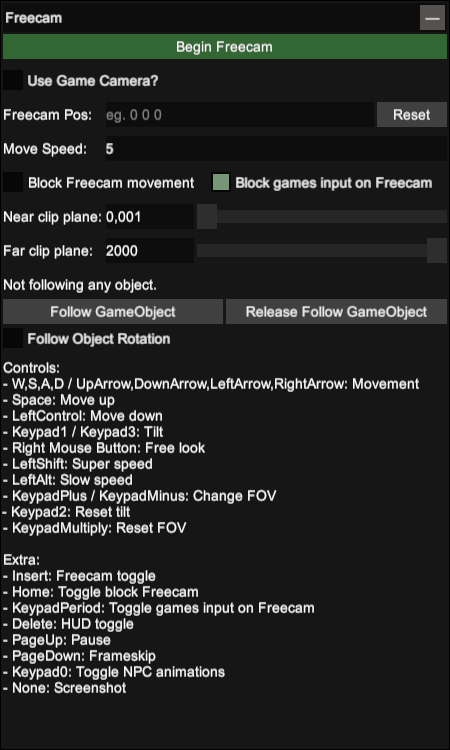
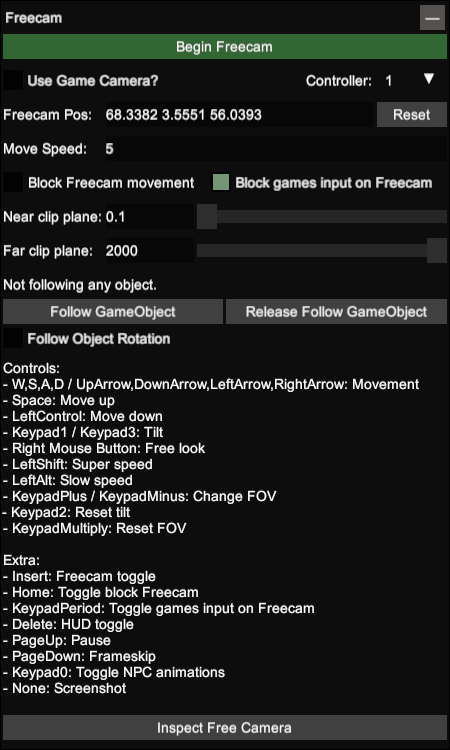
Updated the CUE guide with the next release

diff --git a/GeneralGuides/cinematic-unity-explorer.htm b/GeneralGuides/cinematic-unity-explorer.htm
@@ -84,6 +84,10 @@
 
 
 
+<li class="tocentry"><a href="#bones-panel">Bones Panel</a></li>
+
+
+
 <li class="tocentry"><a href="#hud-toggle">HUD toggle</a></li>
 
 <li class="tocentry"><a href="#force-high-lods">Force High LODs</a></li>
@@ -437,10 +441,50 @@ Boot the game again, through the Modded play button. You should see an overlay w
 </tr>
 </tbody>
 </table>
+<p>The mod also allows controller input.</p>
+<table class="table table-bordered-all table-responsive">
+<thead>
+<tr>
+	<th>Feature</th>
+	<th>Key</th>
+</tr>
+</thead>
+<tbody>
+<tr>
+	<td>Move the camera forward/left/right/backward</td>
+	<td><font face="Controller">&lt;</font></td>
+</tr>
+<tr>
+	<td>Move the camera upwards/downwards</td>
+	<td><font face="Controller">{/}</font></td>
+</tr>
+<tr>
+	<td>Speed up/down movement</td>
+	<td><font face="Controller">x/y</font></td>
+</tr>
+<tr>
+	<td>Change freecam orientation</td>
+	<td><font face="Controller">&gt;</font></td>
+</tr>
+<tr>
+	<td>Tilt left/right</td>
+	<td><font face="Controller">A/D</font></td>
+</tr>
+<tr>
+	<td>Increase/Decrease FOV</td>
+	<td><font face="Controller">W/X</font></td>
+</tr>
+<tr>
+	<td>Reset FOV</td>
+	<td><font face="Controller">b</font></td>
+</tr>
+</tbody>
+</table>
 <h1 id="freecam">Freecam<a class="headerlink" href="#freecam" title="Permalink to this headline"><i class="fa fa-link" aria-hidden="true"></i></a></h1>
 <hr />
 <p>The freecam can be enabled from the &quot;Freecam&quot; panel on the mods menu or with the <code>Insert</code> hotkey. However, there are two kinds of freecams, as explained in the two following subsections.</p>
 <p><img src="../Images/CinematicUnityExplorerGuide/sidebyside.jpg" alt="sidebyside" class="shadowed autosize" width="900" height="253" /></p>
+<p>You can also control the freecam using a controller. You can select the controller to do so in the panel as shown above but do know that some games will read input from all controllers, so you might not be able to play with one controller and move the camera with the other.</p>
 <h2 id="new-camera">New Camera<a class="headerlink" href="#new-camera" title="Permalink to this headline"><i class="fa fa-link" aria-hidden="true"></i></a></h2>
 <p>Without checking the &quot;Use Game Camera?&quot; checkbox on the Freecam panel, the mod will create a new camera object for you to control. This means that some post-processing effects won't be displayed (because they are being applied to the game's camera, not the new one), making the game look &quot;ugly&quot;.</p>
 <p>However, we would like this to be the case in some games if the gameplay camera happens to bring unwanted effects (like in Somerville, where the gameplay camera didn't render behind the black bars, but this new camera did).</p>
@@ -470,6 +514,7 @@ Boot the game again, through the Modded play button. You should see an overlay w
 <p>You can enable or disable the game input when the freecam is enabled by clicking the &quot;Enable game input&quot; checkbox on the Freecam panel or pressing the <code>Numpad .</code> hotkey by default. This is enabled by default to avoid moving the character when moving the freecam.</p>
 <p>This can be used in conjunction with the &quot;Block freecam&quot; to freeze the freecam in a specific, nongameplay place, while you move the character around.</p>
 <p>Do keep in mind tho that this feature only works if the developers use Unity's Legacy Input system for their game. If the game uses a custom solution or the latest Unity system then this won't work. Implementing this for Unity's new system is in the backlog, so if you find a game using it (should say <code>Initialized new InputSystem support.</code> on the logs) then please let me know on the <a href="https://github.com/originalnicodr/CinematicUnityExplorer/issues" target="_blank">repository issues page</a> so I can implement it using that game!</p>
+<p>Also, know that blocking game input coming from a controller isn't supported at the time of writing.</p>
 <p>In the meantime, if you need to disable the game input and the mod isn't doing so automatically you can try looking for the right game object or component to disable. Follow the steps described in the <a href="#gameplay-camera">gameplay camera section</a> to do so.</p>
 <h2 id="follow-object">Follow object<a class="headerlink" href="#follow-object" title="Permalink to this headline"><i class="fa fa-link" aria-hidden="true"></i></a></h2>
 <p>Following world objects can be useful for recording video, by creating <a href="#cam-paths">camera paths</a> that are relative to objects.</p>
@@ -540,22 +585,38 @@ Boot the game again, through the Modded play button. You should see an overlay w
 <p>Go to the Misc panel and toggle the &quot;Make all meshes cast and receive shadows&quot; toggle. It's still possible for the light to not cast shadows on specific meshes even with this toggled on (e.g. Dredge), but it's not that common.</p>
 <h1 id="animator">Animator<a class="headerlink" href="#animator" title="Permalink to this headline"><i class="fa fa-link" aria-hidden="true"></i></a></h1>
 <hr />
-<p>The Animator panel allows you to manually play and pause animations on the current characters and NPCs loaded in a scene. This should be pretty useful for getting the right animation on each enemy to set up a composition.</p>
-<p><img src="../Images/CinematicUnityExplorerGuide/animator-panel.png" alt="Animator panel" class="shadowed autosize" width="900" height="564" /></p>
+<p>The Animator panel allows you to manually pause and play animations as well as select specific animation keyframes on the current characters and NPCs loaded in a scene. This should be pretty useful for getting the right animation on each enemy to set up a composition.</p>
+<p><img src="../Images/CinematicUnityExplorerGuide/animator-panel.png" alt="Animator panel" class="shadowed autosize" width="1300" height="278" /></p>
 <p>Favorite animations appear first on the dropdown list by clicking on the star button with the animation selected.</p>
-<p>The way the animator works is that it will replace the animation the entity is doing when the user hit the &quot;Play&quot; button.</p>
+<p>The way the animator works is that it will replace the animation the entity is doing when the user hits the &quot;Play&quot; button or selects a keyframe using the slider.</p>
+<p>The Animator panel also offers a way to hide each NPC individually to help you identify which animator belongs to each NPC if the name isn't enough to figure out. This could also be used to momentarily hide NPCs in a scene. Just make sure to turn them on again when you continue playing if you don't want to fight invisible enemies.</p>
 <p>Setting a specific frame on an animation we like would look like the following.</p>
 <ul>
-<li>Pause the entities you want to force animations on.</li>
-<li>Go to the Inspector tab, click on mouse inspector on the top right, and then click on &quot;world&quot;.</li>
-<li>Click over the character you want to change the animation from. Look at the top field next to the &quot;◄ View Parent&quot; button, it will describe all of the parent hierarchy. The first element on that name will probably have the same name as one inside the list in the animator's panel (these names are often the character names, or something like &quot;enemy-5&quot; or &quot;enemy(Clone)&quot;).</li>
-<li>Once you know which row in the Animators panel refers to the character you want to change the animation, select the animation you want to play from the dropdown and click on the &quot;Play&quot; button.</li>
+<li>Pause the game with the <a href="#timedilation">timedilation widget</a> (or hotkey).</li>
+<li>Go to the Animator Panel, and click on &quot;Refresh Animators&quot;. This will list every NPC with an animator.</li>
+<li>
+If none of the names listed gives you a hint on which belongs to the character you want to animate then try hiding them one by one.
+<ul>
+<li>Alternatively, you can go to the Inspector tab, click on mouse inspector on the top right, and then click on &quot;world&quot;. Then click over the character you want to change the animation from. Look at the top field next to the &quot;◄ View Parent&quot; button, it will describe all of the parent hierarchy. The first element on that name will probably have the same name as one inside the list in the Animator panel (these names are often the character names, or something like &quot;enemy-5&quot; or &quot;enemy(Clone)&quot;).</li>
+</ul>
+</li>
+<li>
+Once you know which row in the Animators panel refers to the character you want to change the animation, select the animation you want to play from the dropdown and move the slider to get the keyframe you want.
+<ul>
+<li>You can also un-pause the game and click on the &quot;Play&quot; button instead.</li>
+</ul>
+</li>
 <li>When you find the right frame pause the animator by clicking on the first checkbox of the entity row.</li>
 <li>Make the entity animator ignore the master toggle.</li>
 </ul>
 <p>The Animator panel also allows you to freeze all characters in a scene all at once, alongside giving you control over which characters should ignore this master toggler, which is assigned to <code>Numpad 0</code> by default. That way you can make the playable character avoid getting frozen, or avoid un-freezing NPCs or enemies that already have the animations you want them to have.</p>
 <p>Once you are done with shooting tho, you should reset the animators of the entities that you manually played animations on. If you can't recall which entities you played animations on or you just forced animations on a lot of entities you can click on &quot;Reset Animators&quot; and all of the non-deleted existing entities will get their animatiors reset.</p>
-<p>Alongside all of this, you can also open each character game object by clicking on their names, so you can move, rotate, scale them around, disable them, or further edit their properties and child objects. More on this in the<a href="#how-to-modify-a-game-objects-spatial-property">&quot;How to modify a game object's spatial property&quot;</a> section.</p>
+<p>Alongside all of this, you can also open each character game object by clicking on their names, so you can move, rotate, scale them around, disable them, or further edit their properties and child objects. More on this in the <a href="#how-to-modify-a-game-objects-spatial-property">&quot;How to modify a game object's spatial property&quot;</a> section.</p>
+<h2 id="bones-panel">Bones Panel<a class="headerlink" href="#bones-panel" title="Permalink to this headline"><i class="fa fa-link" aria-hidden="true"></i></a></h2>
+<p>For each animator, you can also spawn a Bones Panel. This panel will list all of the character's bones and meshes, and provide easy-to-access toggles to disable them and sliders to move them around, allowing you to pose a character to your liking.</p>
+<p><img src="../Images/CinematicUnityExplorerGuide/bones-panel.png" alt="Bones panel" class="shadowed autosize" width="1000" height="400" /></p>
+<p>Do take in mind that to move an NPC bones around you will need to disable the animator (done at the top of the Bones Panel). This will get activated again automatically once you reset all of the animators. Also, you will probably only be able to disable certain meshes that aren't bones (like accessories such as a scarf or sunglasses). If you want to hide a certain element that is a bone and can't be toggled you can try reducing its scale to 0.</p>
+<p>Also, certain elements such as clothes or hair might get weird physics when posing the character. If you want them to adapt to the new character pose try skipping one or two frames with the <a href="#skipframe">skipframe</a> hotkey.</p>
 <h1 id="post-processing-panel">Post-processing panel<a class="headerlink" href="#post-processing-panel" title="Permalink to this headline"><i class="fa fa-link" aria-hidden="true"></i></a></h1>
 <hr />
 <p>It loads all the current vanilla post-processing effects being used when clicking on &quot;Refresh Effects&quot; and offers togglers to disable them. It also lets you inspect the postprocessing objects yourself if you want to edit their parameters instead.</p>
